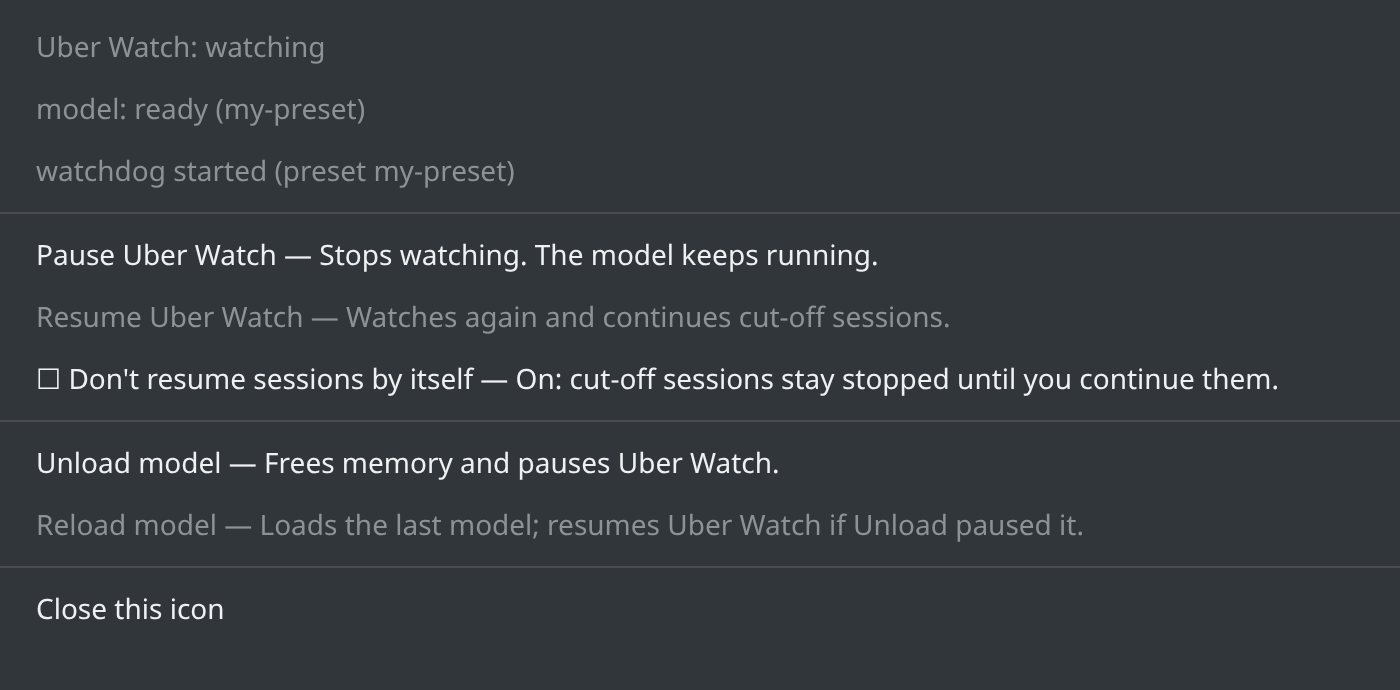
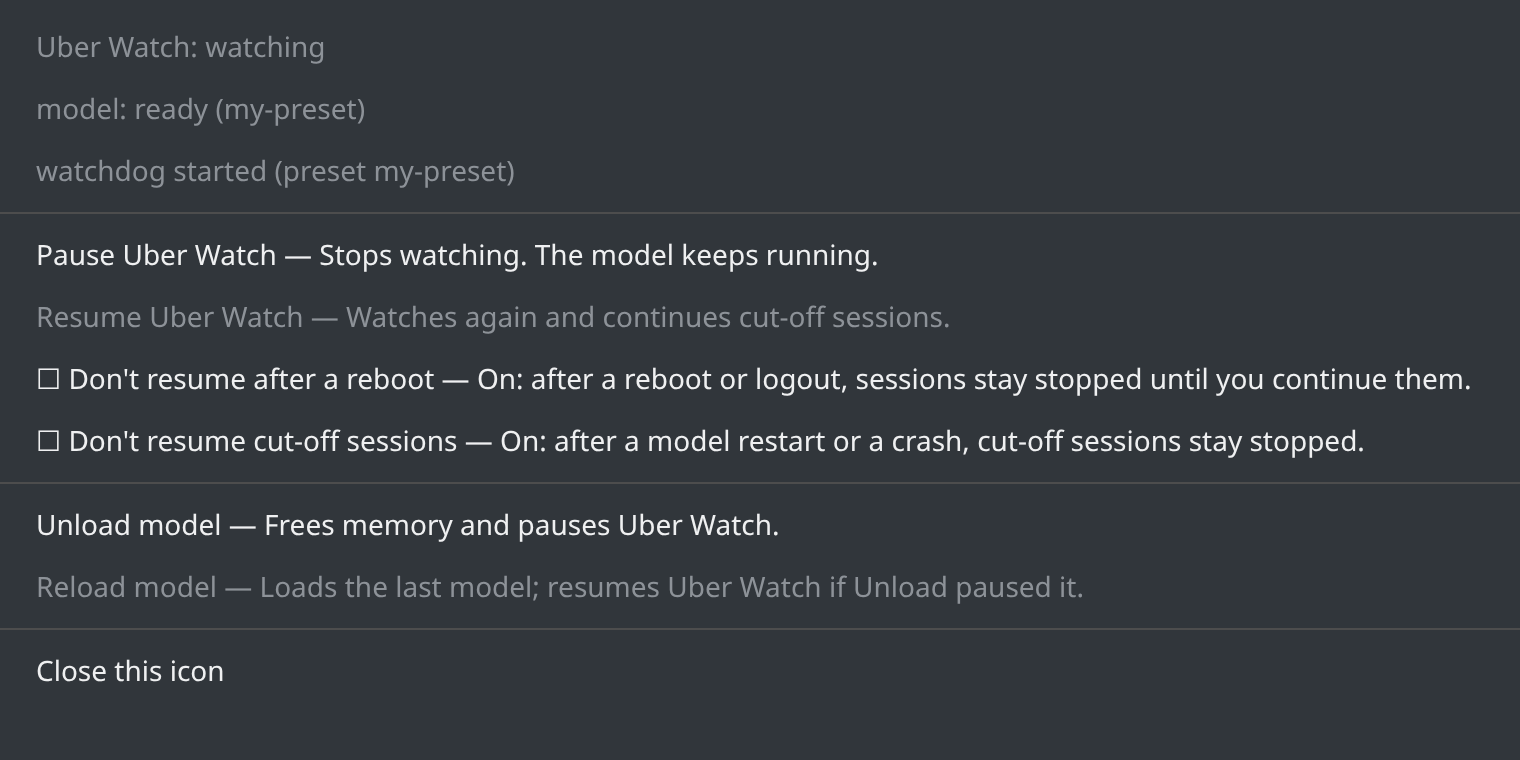
Two separate switches: no resume after a reboot, no resume of cut-off sessions

diff --git a/uber-watch-tray.py b/uber-watch-tray.py
@@ -19,13 +19,15 @@ UNIT = "strata-watchdog.service"
 STRATA = os.path.expanduser("~/.local/bin/strata")
 LOG = os.path.expanduser("~/.local/state/strata/watchdog.log")
 STATE = os.path.expanduser("~/.local/state/strata/tray-state.json")
-NO_RESUME = os.path.expanduser("~/.local/state/strata/no-resume")  # the watchdog skips resuming sessions while this exists
+NO_RESUME = os.path.expanduser("~/.local/state/strata/no-resume")  # exists = no resume after a model restart or a crash
+NO_RESUME_BOOT = os.path.expanduser("~/.local/state/strata/no-resume-reboot")  # exists = no resume after a reboot or a restart of the watchdog
 DESC = {
     "Pause Uber Watch": "Stops watching. The model keeps running.",
     "Resume Uber Watch": "Watches again and continues cut-off sessions.",
     "Unload model": "Frees memory and pauses Uber Watch.",
     "Reload model": "Loads the last model; resumes Uber Watch if Unload paused it.",
-    "Don't resume sessions by itself": "On: cut-off sessions stay stopped until you continue them.",
+    "Don't resume after a reboot": "On: after a reboot or logout, sessions stay stopped until you continue them.",
+    "Don't resume cut-off sessions": "On: after a model restart or a crash, cut-off sessions stay stopped.",
 }
 ICONS = {"on": "media-playback-start", "paused": "media-playback-pause"}
 
@@ -103,10 +105,8 @@ class Tray:
         m.append(Gtk.SeparatorMenuItem())
         self.pause_it = self.item(m, "Pause Uber Watch", self.pause)
         self.resume_it = self.item(m, "Resume Uber Watch", self.resume)
-        self.noresume_it = Gtk.CheckMenuItem(label="Don't resume sessions by itself   —   " + DESC["Don't resume sessions by itself"])
-        self.noresume_it.set_active(os.path.exists(NO_RESUME))
-        self.noresume_it.connect("toggled", lambda w: self.toggle_noresume(w.get_active()))
-        m.append(self.noresume_it)
+        self.noboot_it = self.switch(m, "Don't resume after a reboot", NO_RESUME_BOOT)
+        self.nocut_it = self.switch(m, "Don't resume cut-off sessions", NO_RESUME)
         m.append(Gtk.SeparatorMenuItem())
         self.unload_it = self.item(m, "Unload model", self.unload)
         self.reload_it = self.item(m, "Reload model", self.reload)
@@ -125,6 +125,21 @@ class Tray:
         it.set_sensitive(False)
         menu.append(it)
         return it
+
+    def switch(self, menu, text, flag):
+        it = Gtk.CheckMenuItem(label=text + "   —   " + DESC[text])
+        it.set_active(os.path.exists(flag))
+        it.connect("toggled", lambda w: self.set_flag(flag, w.get_active()))
+        menu.append(it)
+        return it
+
+    @staticmethod
+    def set_flag(flag, on):
+        os.makedirs(os.path.dirname(flag), exist_ok=True)
+        if on:
+            open(flag, "w").close()
+        elif os.path.exists(flag):
+            os.remove(flag)
 
     @staticmethod
     def item(menu, text, cb):
@@ -166,15 +181,6 @@ class Tray:
         save_state(paused_by_unload=False)
         say("Watchdog is watching again.")
         self.refresh()
-
-    def toggle_noresume(self, on):
-        os.makedirs(os.path.dirname(NO_RESUME), exist_ok=True)
-        if on:
-            open(NO_RESUME, "w").close()
-            say("Sessions will not be resumed by the watchdog.")
-        elif os.path.exists(NO_RESUME):
-            os.remove(NO_RESUME)
-            say("The watchdog resumes cut-off sessions again.")
 
     def run_async(self, work):
         self.busy = True

diff --git a/README.md b/README.md
@@ -22,7 +22,8 @@ Built for the Strata local model server on Linux. Works with any setup where the
 |---|---|
 | Pause Uber Watch | Stops watching. The model keeps running, but nothing restarts it if it fails. |
 | Resume Uber Watch | Starts watching again: restarts the model if it fails and continues cut-off sessions. |
-| Don't resume sessions by itself | On: after a restart or reboot, cut-off sessions stay stopped until you continue them. |
+| Don't resume after a reboot | On: after a reboot or logout, sessions stay stopped until you continue them. |
+| Don't resume cut-off sessions | On: after a model restart or a crash, cut-off sessions stay stopped. |
 | Unload model | Unloads the model to free memory **and pauses Uber Watch**, so it doesn't load the model again. |
 | Reload model | Loads the last model again. If Unload paused Uber Watch, it **starts watching again**. |
 
@@ -48,7 +49,8 @@ The tray icon needs `python-gobject` and `libayatana-appindicator`. It starts at
 |---|---|
 | `~/.local/state/strata/watchdog.log` | what the watchdog did |
 | `~/.local/state/strata/tray-state.json` | the last loaded preset (shared with the game mode panel) |
-| `~/.local/state/strata/no-resume` | exists = never continue sessions by itself |
+| `~/.local/state/strata/no-resume` | exists = do not continue cut-off sessions after a model restart or a crash |
+| `~/.local/state/strata/no-resume-reboot` | exists = do not continue sessions after a reboot, a logout or a restart of the watchdog |
 
 ## More from Ubermoc
 
